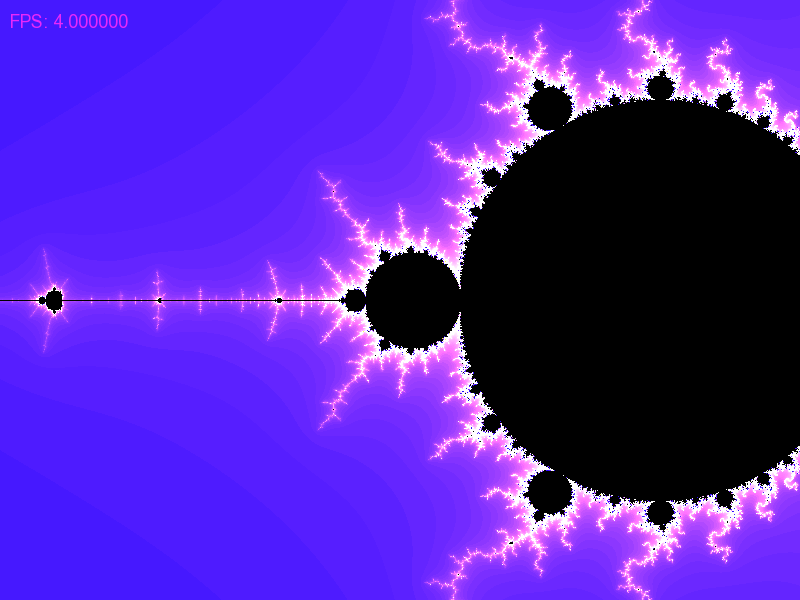
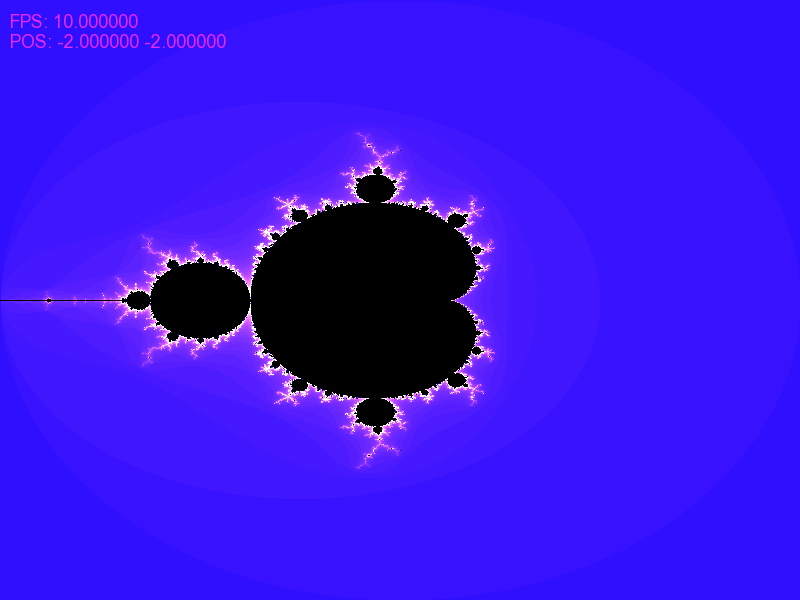
added zoom

diff --git a/main.cpp b/main.cpp
@@ -9,60 +9,70 @@ g++ main.o -o main -lsfml-graphics -lsfml-window -lsfml-system
 #include <time.h>
 #include <SFML/Graphics.hpp>
 
+struct XYset_t {
+    float minr, maxr, mini, maxi;
+    float scale, scale_coef;
+    float dm;
+    float dx, dy;
+    float ux, uy;
+    float mx, my;
+    float scrx, scry;
+};
+
 #define MAX(a, b) (((a) > (b)) ? (a) : (b))
 #define MIN(a, b) (((a) < (b)) ? (a) : (b))
 #define WIDTH  800
 #define HEIGHT 600
-#define DX (float)1/WIDTH
-#define DY (float)1/WIDTH
 #define POS(x, y) ((y) * WIDTH + x) * 4
 
-void render_(sf::Uint8* pixels, float ux, float uy)
+void render_(sf::Uint8* pixels, XYset_t* XYset)
 {
-    const int max_count = 256;
-    const float max_dist = 100.f;
-    float x0, y0, X, Y, xx, yy, xy, r;
-    int steps;
-    for (int y = 0; y < HEIGHT; y++) {
-        for (int x = 0; x < WIDTH; x += 4) {
-            for (int i = 0; i < 4; i++) {
-                X = x0 = ux - (float)(WIDTH / 2) * DX + i * DX + DX * 4 * x / 4 - 1.325f;
-                Y = y0 = uy + ((float)y - (float)(HEIGHT / 2))*DY;
+    const int maxcount = 256;
+    float zx = 0, zy = 0, cx = 0, cy = 0;
+    float temp;
+    int pack = 32, steps;
+    XYset->scrx = XYset->scale * (XYset->ux - abs(XYset->minr)) + XYset->mx;
+    XYset->scry = XYset->scale * (XYset->uy - abs(XYset->mini)) + XYset->my;
+    for (int iy = 0; iy < HEIGHT; iy++) {
+        for (int ix = 0; ix < WIDTH; ix += pack) {
+            for (int i = 0; i < pack; i++) {
+                cx = XYset->scrx + XYset->scale * (XYset->dx * (ix + i));
+                cy = XYset->scry + XYset->scale * (XYset->dy * iy);
+               
+                zx = 0;
+                zy = 0;
                 steps = 0;
-                for (; steps < max_count; steps++) {
-                    xx = X * X;
-                    yy = Y * Y;
-                    xy = X * Y;
-                    r = xx + yy;
-                    if (r >= max_dist) break;
-                    X = xx - yy + x0;
-                    Y = 2 * xy + y0;
+                for (;zx * zx + zy * zy <= 4 && steps < maxcount; steps++) {
+                    temp = zx;
+                    zx = (zx * zx) - (zy * zy) + cx;
+                    zy = (2 * temp * zy) + cy;
                 }
-                float I = exp(sqrtf((float)steps / (float)max_count)) * 255.f;
+
+                float I = exp(sqrtf((float)steps / (float)maxcount)) * 255.f;
                 unsigned char c = (unsigned char) I;
-                if (steps < max_count) {
-                    pixels[POS(x, y) + i * 4 + 0] = (unsigned char) MIN(255, exp((float)(c - 255) / 45.f) * 10000.f);
-                    pixels[POS(x, y) + i * 4 + 1] = (unsigned char) MIN(255, exp((float)(c - 255) / 37.f) * 10000.f);
-                    pixels[POS(x, y) + i * 4 + 2] = (unsigned char) MIN(255, 255 * pow(cos(c / 255), 2));
-                    pixels[POS(x, y) + i * 4 + 3] = 255;
+                if (steps < maxcount) {
+                    pixels[POS(ix, iy) + i * 4 + 0] = (unsigned char) MIN(255, exp((float)(c - 255) / 45.f) * 10000.f);
+                    pixels[POS(ix, iy) + i * 4 + 1] = (unsigned char) MIN(255, exp((float)(c - 255) / 37.f) * 10000.f);
+                    pixels[POS(ix, iy) + i * 4 + 2] = (unsigned char) MIN(255, 255 * pow(cos(c / 255), 2));
+                    pixels[POS(ix, iy) + i * 4 + 3] = 255;
                 } else {
-                    pixels[POS(x, y) + i * 4 + 0] = 0;
-                    pixels[POS(x, y) + i * 4 + 1] = 0;
-                    pixels[POS(x, y) + i * 4 + 2] = 0;
-                    pixels[POS(x, y) + i * 4 + 3] = 255;
+                    pixels[POS(ix, iy) + i * 4 + 0] = 0;
+                    pixels[POS(ix, iy) + i * 4 + 1] = 0;
+                    pixels[POS(ix, iy) + i * 4 + 2] = 0;
+                    pixels[POS(ix, iy) + i * 4 + 3] = 255;
                 }
             }
         }
     }
 }
 
-int render(sf::Uint8* pixels, float ux, float uy)
+int render(sf::Uint8* pixels, XYset_t* XYset)
 {
     clock_t start;
     clock_t end;
 
     start = clock();
-    render_(pixels, ux, uy);
+    render_(pixels, XYset);
     end = clock();
 
     float time = (double)(end - start);
@@ -71,37 +81,54 @@ int render(sf::Uint8* pixels, float ux, float uy)
     return FPS;
 }
 
-int control(sf::Event event, float* x, float* y)
+int control(sf::RenderWindow* window, sf::Event event, XYset_t* XYset)
 {
+    sf::Vector2i mouse_pos = sf::Mouse::getPosition(*window);
     switch (event.type) {
         case sf::Event::Closed:
             return 1;
+        case sf::Event::MouseButtonReleased:
+            switch (event.mouseButton.button) {
+                case sf::Mouse::Left:
+                    XYset->mx -= (WIDTH  / 2 - (float)mouse_pos.x) * XYset->dm / WIDTH  * XYset->scale;
+                    XYset->my -= (HEIGHT / 2 - (float)mouse_pos.y) * XYset->dm / HEIGHT * XYset->scale;
+                    XYset->scale /= XYset->scale_coef;
+                    break;
+                case sf::Mouse::Right:
+                    XYset->mx += (WIDTH  / 2 - (float)mouse_pos.x) * XYset->dm / WIDTH  * XYset->scale;
+                    XYset->my += (HEIGHT / 2 - (float)mouse_pos.y) * XYset->dm / HEIGHT * XYset->scale;
+                    XYset->scale *= XYset->scale_coef;
+                    break;
+                default:
+                    break;
+            }
+            break;
         case sf::Event::EventType::KeyPressed:
             switch (event.key.code) {
                 case sf::Keyboard::Left:
-                    *x -= DX;
+                    XYset->ux -= XYset->dx;
                     break;
                 case sf::Keyboard::Right:
-                    *x += DX;
+                    XYset->ux += XYset->dx;
                     break;
                 case sf::Keyboard::Down:
-                    *y += DX;
+                    XYset->uy += XYset->dy;
                     break;
                 case sf::Keyboard::Up:
-                    *y -= DX;
+                    XYset->uy -= XYset->dy;
                     break;
                 
                 case sf::Keyboard::A:
-                    *x -= DX;
+                    XYset->ux -= XYset->dx;
                     break;
                 case sf::Keyboard::D:
-                    *x += DX;
+                    XYset->ux += XYset->dx;
                     break;
                 case sf::Keyboard::S:
-                    *y += DX;
+                    XYset->uy += XYset->dy;
                     break;
                 case sf::Keyboard::W:
-                    *y -= DX;
+                    XYset->uy -= XYset->dy;
                     break;
                 default:
                     break;
@@ -128,14 +155,23 @@ int main()
     FPS_Text.setPosition(10, 10);
     FPS_Text.setCharacterSize(18);
     FPS_Text.setColor(sf::Color(232, 40, 250));
+    sf::Text POS_Text;
+    POS_Text.setFont(font);
+    POS_Text.setPosition(10, 30);
+    POS_Text.setCharacterSize(18);
+    POS_Text.setColor(sf::Color(232, 40, 250));
 
-    float x = 0.f, y = 0.f; 
+    XYset_t XYset = {-2.f, 2.f, -2.f, 2.f, 1.f, 1.1f, 2.f};
+    XYset.dx = (XYset.maxr - XYset.minr) / WIDTH;
+    XYset.dy = (XYset.maxi - XYset.mini) / HEIGHT;
+
+    float x = 0.f, y = 0.f, scale = 1.0f;
     int cycle_counter = 0;
     bool image_saved = false;
     while (window.isOpen()) {
         sf::Event event;
         while (window.pollEvent(event)) {
-            if (control(event, &x, &y)) {
+            if (control(&window, event, &XYset)) {
                 window.close();
                 break;
             }
@@ -143,13 +179,17 @@ int main()
 
         window.clear();
 
-        float FPS = render(pixels, x, y);
+        float FPS = render(pixels, &XYset);
         texture.update(pixels);
         window.draw(sprite);
 
         auto fps_string = "FPS: " + std::to_string(FPS);
         FPS_Text.setString(fps_string);
         window.draw(FPS_Text);
+
+        auto pos_string = "POS: " + std::to_string(XYset.scrx) + " " + std::to_string(XYset.scry);
+        POS_Text.setString(pos_string);
+        window.draw(POS_Text);
 
         window.display();
 
